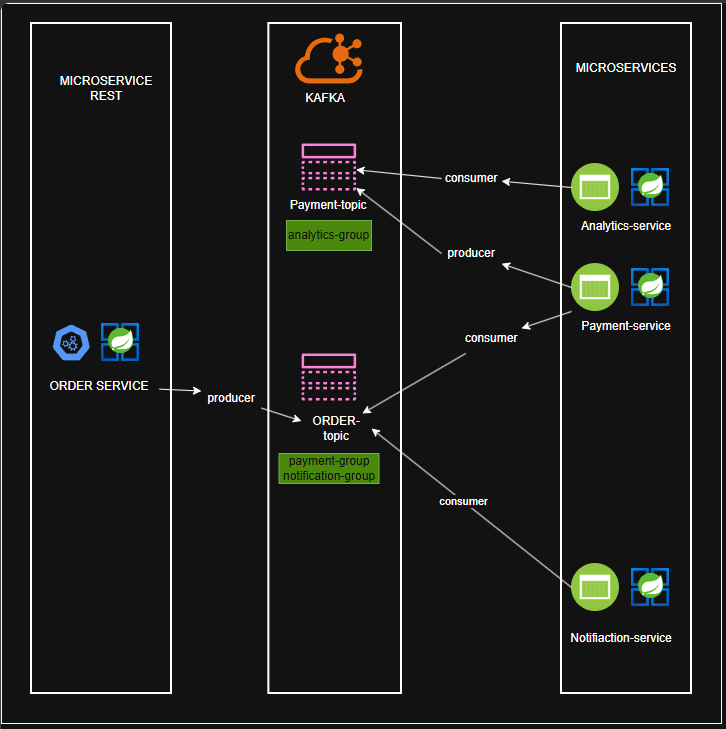
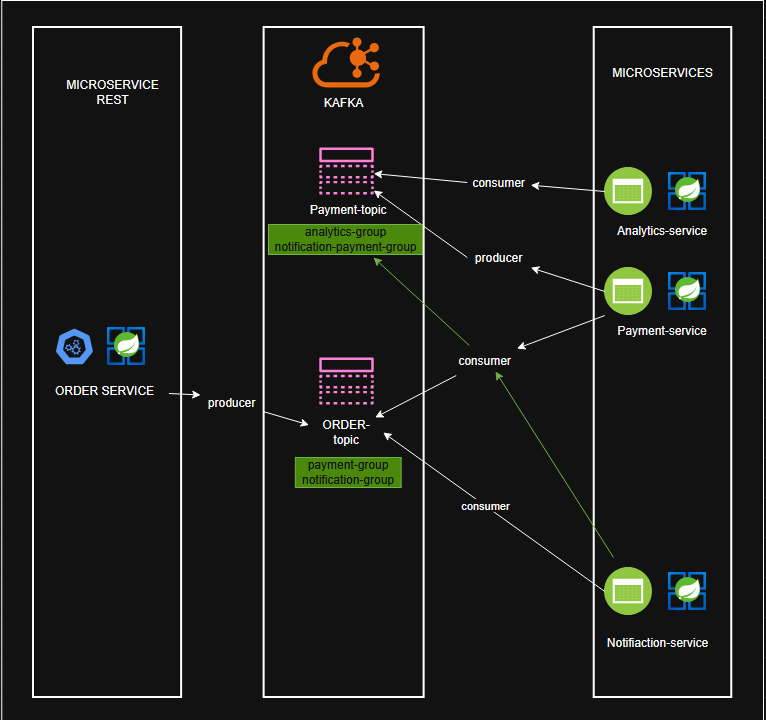
Created Consumer Notifications(pay,ord)

diff --git a/NotificationService/src/main/java/com/commerce/notificationservice/Consumer/Order/OrderNotificationConsumer.java b/NotificationService/src/main/java/com/commerce/notificationservice/Consumer/Order/OrderNotificationConsumer.java
@@ -1,0 +1,32 @@
+package com.commerce.notificationservice.Consumer.Order;
+
+import com.commerce.notificationservice.DTO.Event.OrderEventDTO;
+import com.commerce.notificationservice.Service.NotificationService;
+import org.springframework.kafka.annotation.KafkaListener;
+import org.springframework.stereotype.Service;
+import tools.jackson.databind.ObjectMapper;
+
+@Service
+public class OrderNotificationConsumer {
+
+        private final NotificationService notificationService;
+        private final ObjectMapper objectMapper;
+
+        public OrderNotificationConsumer(NotificationService notificationService, ObjectMapper objectMapper) {
+            this.notificationService = notificationService;
+            this.objectMapper = objectMapper;
+        }
+
+        @KafkaListener(topics = "orders-topic", groupId = "notification-group")
+        public void consume(String message){
+            try {
+                OrderEventDTO orderEventDTO = objectMapper.readValue(message, OrderEventDTO.class);
+
+                notificationService.sendOrderCreatedEmail(orderEventDTO);
+
+            }catch (Exception e){
+                System.err.println("Error procesando mensaje de Kafka");
+                e.printStackTrace();
+            }
+        }
+}

diff --git a/NotificationService/src/main/java/com/commerce/notificationservice/Consumer/Payment/PaymentNotificationConsumer.java b/NotificationService/src/main/java/com/commerce/notificationservice/Consumer/Payment/PaymentNotificationConsumer.java
@@ -1,0 +1,34 @@
+package com.commerce.notificationservice.Consumer.Payment;
+
+import com.commerce.notificationservice.Service.NotificationService;
+import org.springframework.kafka.annotation.KafkaListener;
+import org.springframework.stereotype.Service;
+import tools.jackson.databind.ObjectMapper;
+
+@Service
+public class PaymentNotificationConsumer {
+
+    private final NotificationService notificationService;
+    private final ObjectMapper objectMapper;
+    private final String TOPIC_NAME = "payment-topic";
+    private final String GROUP_ID = "notification-payment-group";
+
+    public PaymentNotificationConsumer(NotificationService notificationService, ObjectMapper objectMapper) {
+        this.notificationService = notificationService;
+        this.objectMapper = objectMapper;
+    }
+    @KafkaListener(topics = TOPIC_NAME, groupId = GROUP_ID)
+    private void consume(String message){
+        try{
+
+        // Class<?> DTO = objectMapper.readValue(message, ?);
+
+        }catch (Exception e){
+            System.err.println("Error procesando mensaje de Kafka");
+            e.printStackTrace();
+        }
+    }
+
+
+
+}

diff --git a/NotificationService/src/main/java/com/commerce/notificationservice/Service/NotificationService.java b/NotificationService/src/main/java/com/commerce/notificationservice/Service/NotificationService.java
@@ -1,0 +1,16 @@
+package com.commerce.notificationservice.Service;
+
+import com.commerce.notificationservice.DTO.Event.OrderEventDTO;
+import org.springframework.stereotype.Service;
+
+@Service
+public class NotificationService {
+    public void sendOrderCreatedEmail(OrderEventDTO orderEventDTO){
+        System.out.printf("EMAIL: Tu orden %s fue creada %n", orderEventDTO.getOrderId());
+    }
+
+    public void sendPaymentApprovedEmail(OrderEventDTO orderEventDTO){
+        System.out.printf("EMAIL: Tu pago para la orden %s fue aprobada con un monto de $%f %n", orderEventDTO.getOrderId(), orderEventDTO.getAmount());
+    }
+
+}

diff --git a/NotificationService/src/main/java/com/commerce/notificationservice/DTO/Event/OrderEventDTO.java b/NotificationService/src/main/java/com/commerce/notificationservice/DTO/Event/OrderEventDTO.java
@@ -1,0 +1,17 @@
+package com.commerce.notificationservice.DTO.Event;
+
+import lombok.AllArgsConstructor;
+import lombok.Getter;
+import lombok.NoArgsConstructor;
+import lombok.Setter;
+
+@Getter
+@Setter
+@NoArgsConstructor
+@AllArgsConstructor
+public class OrderEventDTO {
+    private String orderId;
+    private String customer;
+    private Double amount;
+    private String status;
+}

diff --git a/NotificationService/src/main/java/com/commerce/notificationservice/DTO/Event/PaymentEventDTO.java b/NotificationService/src/main/java/com/commerce/notificationservice/DTO/Event/PaymentEventDTO.java
@@ -1,0 +1,14 @@
+package com.commerce.notificationservice.DTO.Event;
+
+import lombok.AllArgsConstructor;
+import lombok.Getter;
+import lombok.NoArgsConstructor;
+import lombok.Setter;
+
+@AllArgsConstructor
+@NoArgsConstructor
+@Getter
+@Setter
+public class PaymentEventDTO {
+
+}
